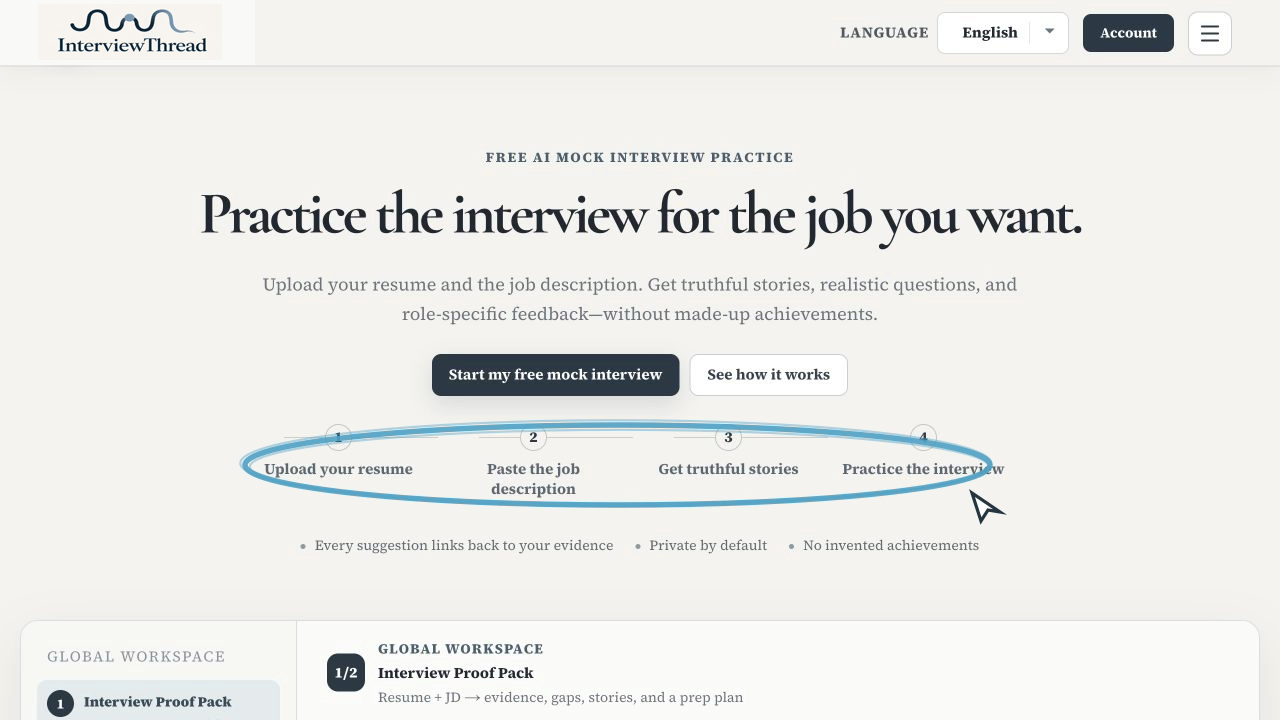
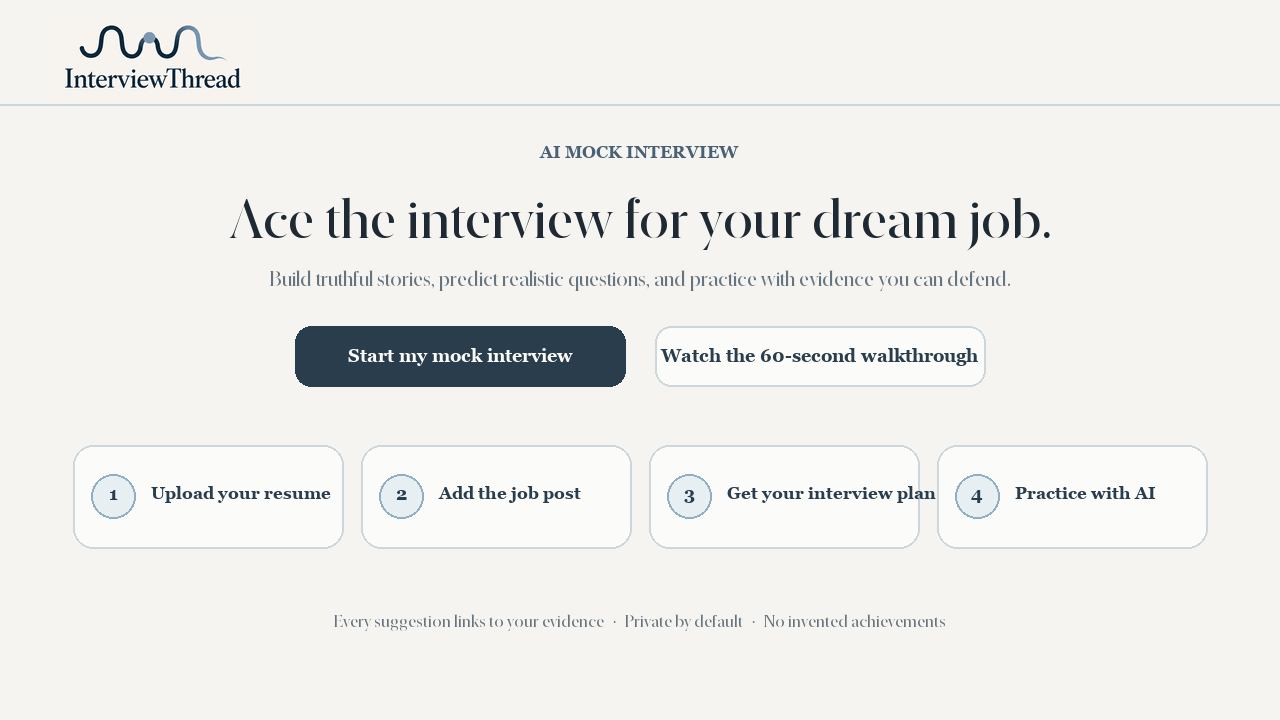
Unify dream job messaging and remove free positioning

diff --git a/platform/web/app/page.tsx b/platform/web/app/page.tsx
@@ -646,22 +646,15 @@ const TECHNICAL_RESOURCES: InterviewResource[] = [
     name: "LeetCode Explore",
     href: "https://leetcode.com/explore/",
     tags: ["coding"],
-    access: "External platform · free and paid content",
+    access: "External platform · mixed access",
     bestFor: "Algorithms, data structures, and timed coding patterns",
   },
   {
     name: "Exercism",
     href: "https://exercism.org/tracks",
     tags: ["coding"],
-    access: "Open source · free",
+    access: "Open source",
     bestFor: "Language fluency, tests, and mentor feedback",
-  },
-  {
-    name: "freeCodeCamp Coding Interview Prep",
-    href: "https://www.freecodecamp.org/learn/coding-interview-prep/",
-    tags: ["coding", "frontend"],
-    access: "Open-source curriculum · free",
-    bestFor: "Algorithms, projects, and progressive practice",
   },
   {
     name: "System Design Primer",
@@ -674,14 +667,14 @@ const TECHNICAL_RESOURCES: InterviewResource[] = [
     name: "Tech Interview Handbook",
     href: "https://github.com/yangshun/tech-interview-handbook",
     tags: ["behavioral", "coding"],
-    access: "Open source · free",
+    access: "Open source",
     bestFor: "Study plans, coding rounds, behavioral preparation, and checklists",
   },
   {
     name: "Front End Interview Handbook",
     href: "https://github.com/yangshun/front-end-interview-handbook",
     tags: ["frontend", "system-design"],
-    access: "Open source · free",
+    access: "Open source",
     bestFor: "HTML, CSS, JavaScript, browser knowledge, and front-end design",
   },
   {
@@ -4182,10 +4175,10 @@ export default function Home({
     MODE_DISCLOSURES[locale]?.[applicationMode] ||
     (locale === "en"
       ? applicationMode === "Manual"
-        ? "Open-source and free. You review every role, edit every document, and submit every application yourself."
+        ? "Open-source public version. You review every role, edit every document, and submit every application yourself."
         : applicationMode === "Hybrid"
-          ? "Open-source and free. AI can prepare a tailored draft and queue next steps, but you must approve every submission."
-          : "Open-source and free. Nothing is submitted automatically in this public version. A future release will require approved employer APIs, consent, rate limits, an audit log, and an emergency stop."
+          ? "Open-source public version. AI can prepare a tailored draft and queue next steps, but you must approve every submission."
+          : "Open-source public version. Nothing is submitted automatically. A future release will require approved employer APIs, consent, rate limits, an audit log, and an emergency stop."
       : `${openSourceLabelFor(locale)} · ${copy.mode} · ${copy[applicationMode.toLowerCase() as "manual" | "hybrid" | "automatic"]}. ${copy.heroBody}`);
   const modeContext = MODE_CONTEXT[locale] || copy.heroBody;
   const suggestedLanguageName = suggestedLocale
@@ -4857,7 +4850,7 @@ export default function Home({
               <b>{detail.privateTitle}</b>
               <p>
                 {locale === "en"
-                  ? "Guest work stays on this device. Accounts can support free history and collaboration without changing the open-source license."
+                  ? "Guest work stays on this device. Accounts can support saved history and collaboration without changing the open-source license."
                   : copy.heroBody}
               </p>
             </div>
@@ -6659,7 +6652,7 @@ export default function Home({
                   <p>
                     {locale === "en"
                       ? radarMessage ||
-                        "Scanning is free and open source. Scheduled cross-device monitoring will require an account and background delivery infrastructure."
+                        "Scanning is open source. Scheduled cross-device monitoring will require an account and background delivery infrastructure."
                       : copy.heroBody}
                   </p>
                 </div>

diff --git a/platform/web/app/account-copy.ts b/platform/web/app/account-copy.ts
@@ -145,49 +145,6 @@ const privateActivityNotice = {
   fa: "فقط شما میتوانید فعالیت ذخیرهشده خود را ببینید. ما رزومه، شرح شغل، متن مصاحبه یا ضبط صدای بازدیدکنندگان ناشناس را جمعآوری نمیکنیم.",
 } satisfies Record<LocaleCode, string>;
 
-const freeAccessNotice = {
-  en: "All features are free and open source.",
-  ja: "すべての機能は無料でオープンソースです。",
-  ko: "모든 기능은 무료이며 오픈 소스입니다.",
-  "zh-CN": "所有功能均免费开源。",
-  "zh-TW": "所有功能皆免費開源。",
-  es: "Todas las funciones son gratuitas y de código abierto.",
-  fr: "Toutes les fonctionnalités sont gratuites et open source.",
-  de: "Alle Funktionen sind kostenlos und Open Source.",
-  "pt-BR": "Todos os recursos são gratuitos e de código aberto.",
-  it: "Tutte le funzionalità sono gratuite e open source.",
-  nl: "Alle functies zijn gratis en open source.",
-  pl: "Wszystkie funkcje są bezpłatne i open source.",
-  tr: "Tüm özellikler ücretsiz ve açık kaynaklıdır.",
-  ru: "Все функции бесплатны и имеют открытый исходный код.",
-  uk: "Усі функції безкоштовні та мають відкритий код.",
-  ar: "جميع الميزات مجانية ومفتوحة المصدر.",
-  he: "כל התכונות חינמיות ובקוד פתוח.",
-  hi: "सभी सुविधाएँ निःशुल्क और ओपन सोर्स हैं।",
-  bn: "সব ফিচার বিনামূল্যে ও ওপেন সোর্স।",
-  ur: "تمام خصوصیات مفت اور اوپن سورس ہیں۔",
-  id: "Semua fitur gratis dan bersumber terbuka.",
-  ms: "Semua ciri adalah percuma dan sumber terbuka.",
-  th: "ทุกฟีเจอร์ใช้งานฟรีและเป็นโอเพนซอร์ส",
-  vi: "Mọi tính năng đều miễn phí và mã nguồn mở.",
-  fil: "Lahat ng feature ay libre at open source.",
-  sv: "Alla funktioner är gratis och har öppen källkod.",
-  no: "Alle funksjoner er gratis og har åpen kildekode.",
-  da: "Alle funktioner er gratis og open source.",
-  fi: "Kaikki ominaisuudet ovat ilmaisia ja avointa lähdekoodia.",
-  cs: "Všechny funkce jsou zdarma a s otevřeným zdrojovým kódem.",
-  sk: "Všetky funkcie sú bezplatné a s otvoreným zdrojovým kódom.",
-  hu: "Minden funkció ingyenes és nyílt forráskódú.",
-  ro: "Toate funcțiile sunt gratuite și open source.",
-  el: "Όλες οι λειτουργίες είναι δωρεάν και ανοικτού κώδικα.",
-  bg: "Всички функции са безплатни и с отворен код.",
-  hr: "Sve su značajke besplatne i otvorenog koda.",
-  sr: "Све функције су бесплатне и отвореног кода.",
-  sl: "Vse funkcije so brezplačne in odprtokodne.",
-  sw: "Vipengele vyote ni vya bure na vya chanzo huria.",
-  fa: "همه قابلیتها رایگان و متنباز هستند.",
-} satisfies Record<LocaleCode, string>;
-
 const openSourceLabel = {
   en: "Open source", ja: "オープンソース", ko: "오픈 소스",
   "zh-CN": "开源", "zh-TW": "開源", es: "Código abierto",
@@ -207,7 +164,7 @@ const openSourceLabel = {
 export function accountCopyFor(locale: LocaleCode): AccountCopy {
   return {
     ...accountCopy[locale],
-    noCharge: freeAccessNotice[locale],
+    noCharge: openSourceLabel[locale],
     privacy: privateActivityNotice[locale],
   };
 }

diff --git a/platform/web/app/site-information.ts b/platform/web/app/site-information.ts
@@ -103,7 +103,7 @@ const englishPages: Record<InformationPageKey, InformationPageCopy> = {
           "Truth before polish: every important claim should trace back to candidate-provided evidence.",
           "Clarity before automation: users should understand why a match, gap, or recommendation appears.",
           "Practice builds confidence: realistic follow-ups matter more than memorizing a perfect script.",
-          "Access matters: the core product is free and open source so the community can inspect and improve it.",
+          "Access matters: the core product is open source so the community can inspect and improve it.",
         ],
       },
     ],
@@ -137,7 +137,7 @@ const englishPages: Record<InformationPageKey, InformationPageCopy> = {
   },
   terms: {
     eyebrow: "Terms of use",
-    title: "Terms for the free, open-source InterviewThread service",
+    title: "Terms for the open-source InterviewThread service",
     description:
       "These terms explain acceptable use, account responsibilities, AI limitations, third-party services, and the current community-preview status.",
     updated: "Effective August 20, 2026",
@@ -242,7 +242,7 @@ const englishPages: Record<InformationPageKey, InformationPageCopy> = {
         paragraphs: [
           "If you submit feedback, we store its category, rating, message, locale, status, timestamp, account owner, product version, product surface, and active beta cohort when applicable. For signed-in use, we may store limited event records such as analysis completed, interview started or answered, tracker updated, feedback submitted, and beta application or withdrawal. These records indicate that an action happened; they do not contain the resume, job description, answer transcript, or raw voice recording.",
           "When you use a contact or partnership form, the name, reply-to email, topic, message, locale, and source page you provide are sent through our transactional email provider to the relevant InterviewThread inbox. Do not include passwords, tokens, full resumes, interview transcripts, or other sensitive information in these forms.",
-          "If you apply for closed beta, we store your structured role family, experience level, interview timing, primary goal, locale, cohort status, separate research/update choices, and the terms, privacy, and product versions you accepted. We do not ask for a resume or free-text career history in the beta application. You can withdraw from beta without deleting your account.",
+          "If you apply for closed beta, we store your structured role family, experience level, interview timing, primary goal, locale, cohort status, separate research/update choices, and the terms, privacy, and product versions you accepted. We do not ask for a resume or open-ended career history in the beta application. You can withdraw from beta without deleting your account.",
         ],
       },
       {

diff --git a/platform/web/app/llms.txt/route.ts b/platform/web/app/llms.txt/route.ts
@@ -7,12 +7,12 @@ export function GET() {
 
 > Find the thread. Own the interview.
 
-InterviewThread is a free, open-source AI mock interview product. Upload a real resume and job description to get truthful stories, realistic questions, and role-specific feedback without invented achievements.
+InterviewThread is an open-source AI mock interview product. Upload a real resume and job description to get truthful stories, realistic questions, and role-specific feedback without invented achievements.
 
 ## Primary pages
 - Product: ${siteUrl}/en/#product
 - Workspace: ${siteUrl}/en/#workspace
-- Free and open-source access: ${siteUrl}/en/#plans
+- Open-source access: ${siteUrl}/en/#plans
 - Resume and job-description matching: ${siteUrl}/en/resume-job-description-match
 - Career story builder: ${siteUrl}/en/career-story-builder
 - AI mock interview: ${siteUrl}/en/ai-mock-interview
@@ -40,7 +40,7 @@ Every public page has an indexable, canonical language URL and reciprocal hrefla
 - Localized public pages and interface support
 
 ## Access
-- Every public feature is free and open source
+- Every public feature is open source
 - There are no paid tiers, billing flows, or priority support levels
 - Accounts may be used for identity and future cross-device persistence, not payment
 

diff --git a/platform/web/app/beta-copy.ts b/platform/web/app/beta-copy.ts
@@ -50,7 +50,7 @@ const en: BetaCopy = {
     ["Review", "We connect feedback to a release, fix regressions, and publish what changed."],
   ] as const,
   formTitle: "Apply to a testing cohort",
-  formDescription: "We collect only structured selections here—no resume, job description, or free-text career history.",
+  formDescription: "We collect only structured selections here—no resume, job description, or open-ended career history.",
   signIn: "Sign in to apply",
   roleFamily: "Role family",
   experienceLevel: "Experience level",

diff --git a/platform/web/app/layout.tsx b/platform/web/app/layout.tsx
@@ -53,7 +53,6 @@ export async function generateMetadata(): Promise<Metadata> {
     },
     keywords: [
       "AI mock interview",
-      "free mock interview",
       "mock interview practice",
       "job interview practice",
       "interview question predictor",
@@ -189,7 +188,6 @@ export default async function RootLayout({
       ],
       url: origin,
       inLanguage: LANGUAGES.map(([code]) => code),
-      isAccessibleForFree: true,
       offers: [
         {
           "@type": "Offer",

diff --git a/platform/web/app/homepage-copy.ts b/platform/web/app/homepage-copy.ts
@@ -12,7 +12,7 @@ export type HomepageCopy = {
 const HOMEPAGE_COPY: Record<LocaleCode, Omit<HomepageCopy, "trust">> = {
   en: {
     eyebrow: "AI mock interview",
-    heroTitle: "Ace the interview for your dream jobs.",
+    heroTitle: "Ace the interview for your dream job.",
     description:
       "Turn your resume and the job post into truthful interview stories, realistic questions, and a focused practice plan.",
     primaryCta: "Start my mock interview",

diff --git a/platform/web/scripts/generate-brand-previews.py b/platform/web/scripts/generate-brand-previews.py
@@ -1,0 +1,122 @@
+#!/usr/bin/env python3
+"""Generate InterviewThread walkthrough and LinkedIn preview artwork."""
+
+from pathlib import Path
+
+from PIL import Image, ImageDraw, ImageFont
+
+
+ROOT = Path(__file__).resolve().parents[1]
+PUBLIC = ROOT / "public"
+LOCKUP = PUBLIC / "interviewthread-logo-lockup.png"
+POSTER = PUBLIC / "interviewthread-walkthrough-poster.png"
+BANNER = PUBLIC / "interviewthread-linkedin-banner.png"
+
+PAPER = "#F5F4F0"
+SURFACE = "#FBFBF9"
+INK = "#1F2933"
+GRAPHITE = "#2A3D4C"
+MUTED = "#66747F"
+LINE = "#CDD6DB"
+MIST = "#91AFC2"
+SERIF = Path("/System/Library/Fonts/NewYork.ttf")
+SERIF_FALLBACK = Path("/System/Library/Fonts/Supplemental/Georgia.ttf")
+SERIF_BOLD = Path("/System/Library/Fonts/Supplemental/Georgia Bold.ttf")
+
+
+def face(size: int, bold: bool = False) -> ImageFont.FreeTypeFont:
+    path = SERIF_BOLD if bold else (SERIF if SERIF.exists() else SERIF_FALLBACK)
+    return ImageFont.truetype(str(path), size=size)
+
+
+def center_text(draw: ImageDraw.ImageDraw, text: str, y: int, font: ImageFont.FreeTypeFont, fill: str, width: int) -> None:
+    box = draw.textbbox((0, 0), text, font=font)
+    draw.text(((width - (box[2] - box[0])) / 2, y), text, font=font, fill=fill)
+
+
+def rounded_button(draw: ImageDraw.ImageDraw, box: tuple[int, int, int, int], text: str, primary: bool) -> None:
+    fill = GRAPHITE if primary else SURFACE
+    outline = GRAPHITE if primary else LINE
+    draw.rounded_rectangle(box, radius=16, fill=fill, outline=outline, width=2)
+    font = face(18, bold=True)
+    text_box = draw.textbbox((0, 0), text, font=font)
+    x = box[0] + ((box[2] - box[0]) - (text_box[2] - text_box[0])) / 2
+    y = box[1] + ((box[3] - box[1]) - (text_box[3] - text_box[1])) / 2 - 2
+    draw.text((x, y), text, font=font, fill=SURFACE if primary else GRAPHITE)
+
+
+def generate_poster() -> None:
+    width, height = 1280, 720
+    image = Image.new("RGB", (width, height), PAPER)
+    draw = ImageDraw.Draw(image)
+
+    lockup = Image.open(LOCKUP).convert("RGBA")
+    lockup.thumbnail((248, 82), Image.Resampling.LANCZOS)
+    image.alpha_composite(lockup, (42, 18)) if image.mode == "RGBA" else image.paste(lockup, (42, 18), lockup)
+    draw.line((0, 104, width, 104), fill=LINE, width=2)
+
+    center_text(draw, "AI MOCK INTERVIEW", 142, face(17, bold=True), "#486174", width)
+    center_text(draw, "Ace the interview for your dream job.", 184, face(56), INK, width)
+    center_text(
+        draw,
+        "Build truthful stories, predict realistic questions, and practice with evidence you can defend.",
+        266,
+        face(21),
+        MUTED,
+        width,
+    )
+
+    rounded_button(draw, (295, 326, 625, 386), "Start my mock interview", True)
+    rounded_button(draw, (655, 326, 985, 386), "Watch the 60-second walkthrough", False)
+
+    steps = [
+        ("1", "Upload your resume"),
+        ("2", "Add the job post"),
+        ("3", "Get your interview plan"),
+        ("4", "Practice with AI"),
+    ]
+    card_width = 270
+    gap = 18
+    start_x = (width - (card_width * 4 + gap * 3)) // 2
+    for index, (number, label) in enumerate(steps):
+        x = start_x + index * (card_width + gap)
+        draw.rounded_rectangle((x, 445, x + card_width, 548), radius=20, fill=SURFACE, outline=LINE, width=2)
+        draw.ellipse((x + 18, 474, x + 62, 518), fill="#E8EFF3", outline=MIST, width=2)
+        number_box = draw.textbbox((0, 0), number, font=face(18, bold=True))
+        draw.text((x + 40 - (number_box[2] - number_box[0]) / 2, 483), number, font=face(18, bold=True), fill=GRAPHITE)
+        draw.text((x + 78, 483), label, font=face(17, bold=True), fill=GRAPHITE)
+
+    trust = "Every suggestion links to your evidence   ·   Private by default   ·   No invented achievements"
+    center_text(draw, trust, 610, face(17), MUTED, width)
+    image.save(POSTER, format="PNG", optimize=True)
+
+
+def generate_banner() -> None:
+    width, height = 1128, 191
+    image = Image.new("RGB", (width, height), PAPER)
+    draw = ImageDraw.Draw(image)
+
+    for x in range(width):
+        ratio = x / max(width - 1, 1)
+        base = (245, 244, 240)
+        mist = (232, 239, 243)
+        color = tuple(round(base[i] * (1 - ratio * 0.34) + mist[i] * ratio * 0.34) for i in range(3))
+        draw.line((x, 0, x, height), fill=color)
+
+    lockup = Image.open(LOCKUP).convert("RGBA")
+    lockup.thumbnail((252, 84), Image.Resampling.LANCZOS)
+    image.paste(lockup, (45, 28), lockup)
+    draw.line((328, 32, 328, 159), fill=LINE, width=2)
+
+    draw.text((370, 42), "Ace the interview for your dream job.", font=face(39), fill=INK)
+    draw.text((372, 108), "Truthful, role-specific AI practice grounded in your real experience.", font=face(18), fill=MUTED)
+    draw.rounded_rectangle((1000, 71, 1050, 121), radius=25, fill=GRAPHITE)
+    draw.ellipse((1018, 89, 1032, 103), fill=MIST)
+    image.save(BANNER, format="PNG", optimize=True)
+
+
+if __name__ == "__main__":
+    generate_poster()
+    generate_banner()
+    print(POSTER)
+    print(BANNER)
